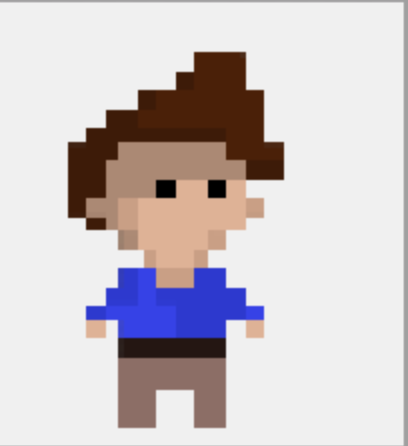
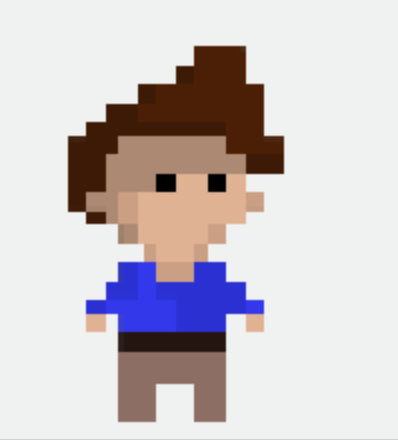
changement image perso

Changed region(s): [[0.1508, 0.0886, 0.7236, 0.975], [0.0, 0.0, 1.0, 1.0], [0.3618, 0.8568, 0.5126, 0.975]]

diff --git a/player.py b/player.py
@@ -11,7 +11,7 @@ class Player(pygame.sprite.Sprite) :
         self.velocity = 2
 
         self.image = pygame.image.load("images/personnage1.png").convert_alpha()
-        self.printImage()
+        self.printImage(1)
 
         self.rect = self.image.get_rect()
         self.rect.x = 0
@@ -24,18 +24,22 @@ class Player(pygame.sprite.Sprite) :
         #moves the character to the Right and changes the character image accordingly
         self.rect.x += self.velocity
         self.image = pygame.image.load("images/personnage1.png").convert_alpha()
-        self.printImage()
+        self.printImage(1)
 
     def moveLeft(self):
         
         #moves the character to the Left and changes the character image accordingly
         self.rect.x -= self.velocity
         self.image = pygame.image.load("images/personnage2.png").convert_alpha()
-        self.printImage()
+        self.printImage(2)
 
-    def printImage(self):
+    def printImage(self, nb):
         self.image = pygame.transform.scale(self.image, (64,64))
-        self.image.set_colorkey((240,240,240))
+
+        if nb == 1:
+            self.image.set_colorkey((240,241,241))
+        elif nb == 2:
+            self.image.set_colorkey((240,240,240))
 
     def draw(self, surface) :
         surface.blit(self.image, self.rect)
